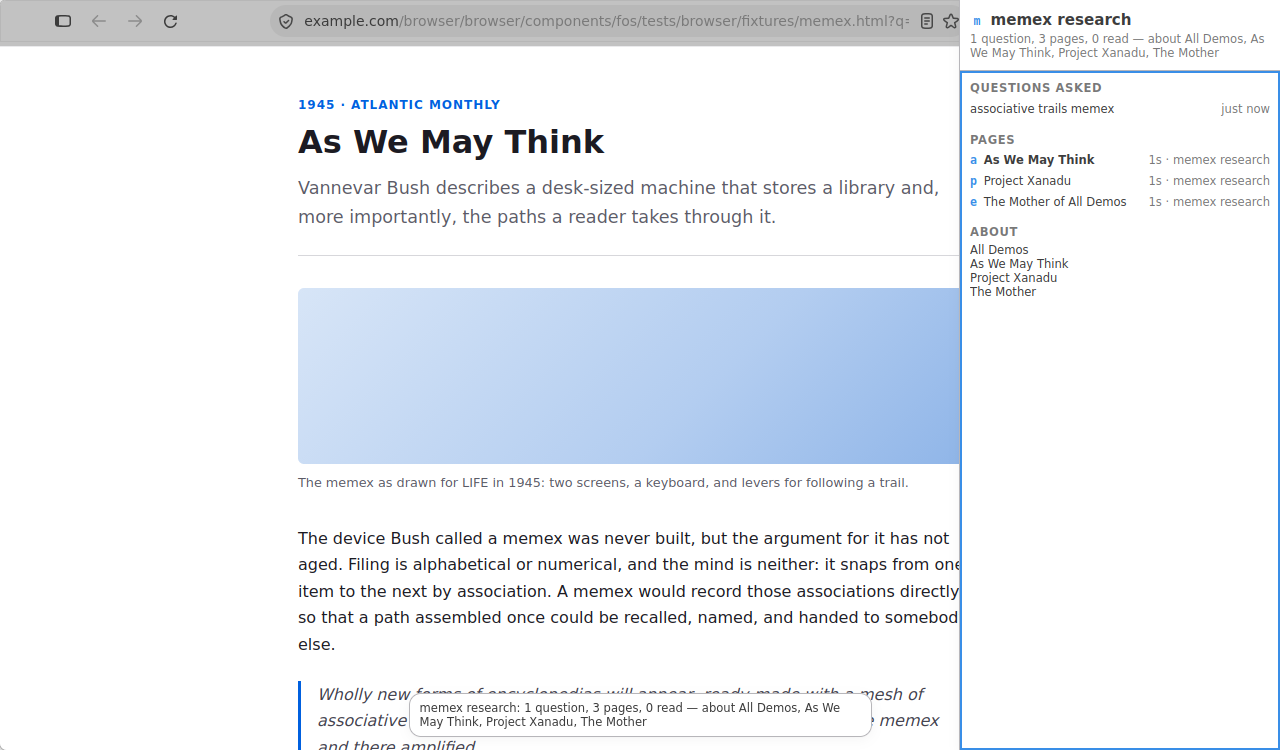
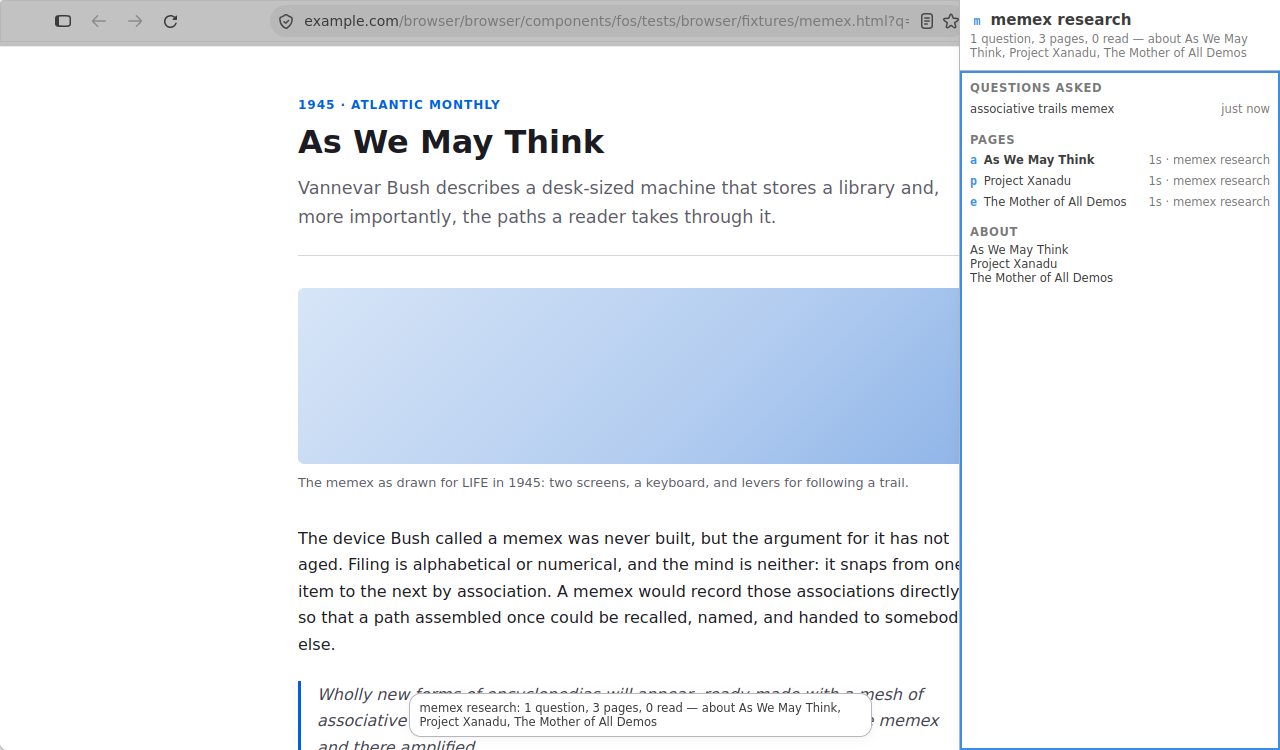
Keep the lowercase words that names contain
The context sidebar listed what the enquiry was about as "All Demos", "The
Mother", "As We May Think" and "Project Xanadu" — five entries for three
things, because a run of capitals alone cuts "The Mother of All Demos" in half
at the word that joins it. Found by reading a screenshot, which is the only
place this extractor's output is on display.

A short list of joiners closes it. `and` is deliberately not on it: it is the
word that most often separates two names, and admitting it would produce one
entity that nothing is about. The remaining limitation is written down rather
than papered over — a sentence-initial capital running into a name is still
glued to it, because nothing in capitalisation distinguishes "Reading Project
Xanadu" from "The Mother of All Demos".

diff --git a/agent/reports/demo-pack.md b/agent/reports/demo-pack.md
@@ -13,7 +13,7 @@ Research context **memex research**: 1 question asked, 4 pages opened. Exported 
 - [mochitest index /](https://example.com/?q=associative+trails+memex) — trail "memex research"
 - [mochitest index /](https://example.org/) — trail "memex research"
 - [mochitest index /](https://example.net/) — trail "memex research"
-- [https://test1.example.com/](https://test1.example.com/) — trail "memex research"
+- [mochitest index /](https://test1.example.com/) — trail "memex research"
 
 ## Key entities
 
